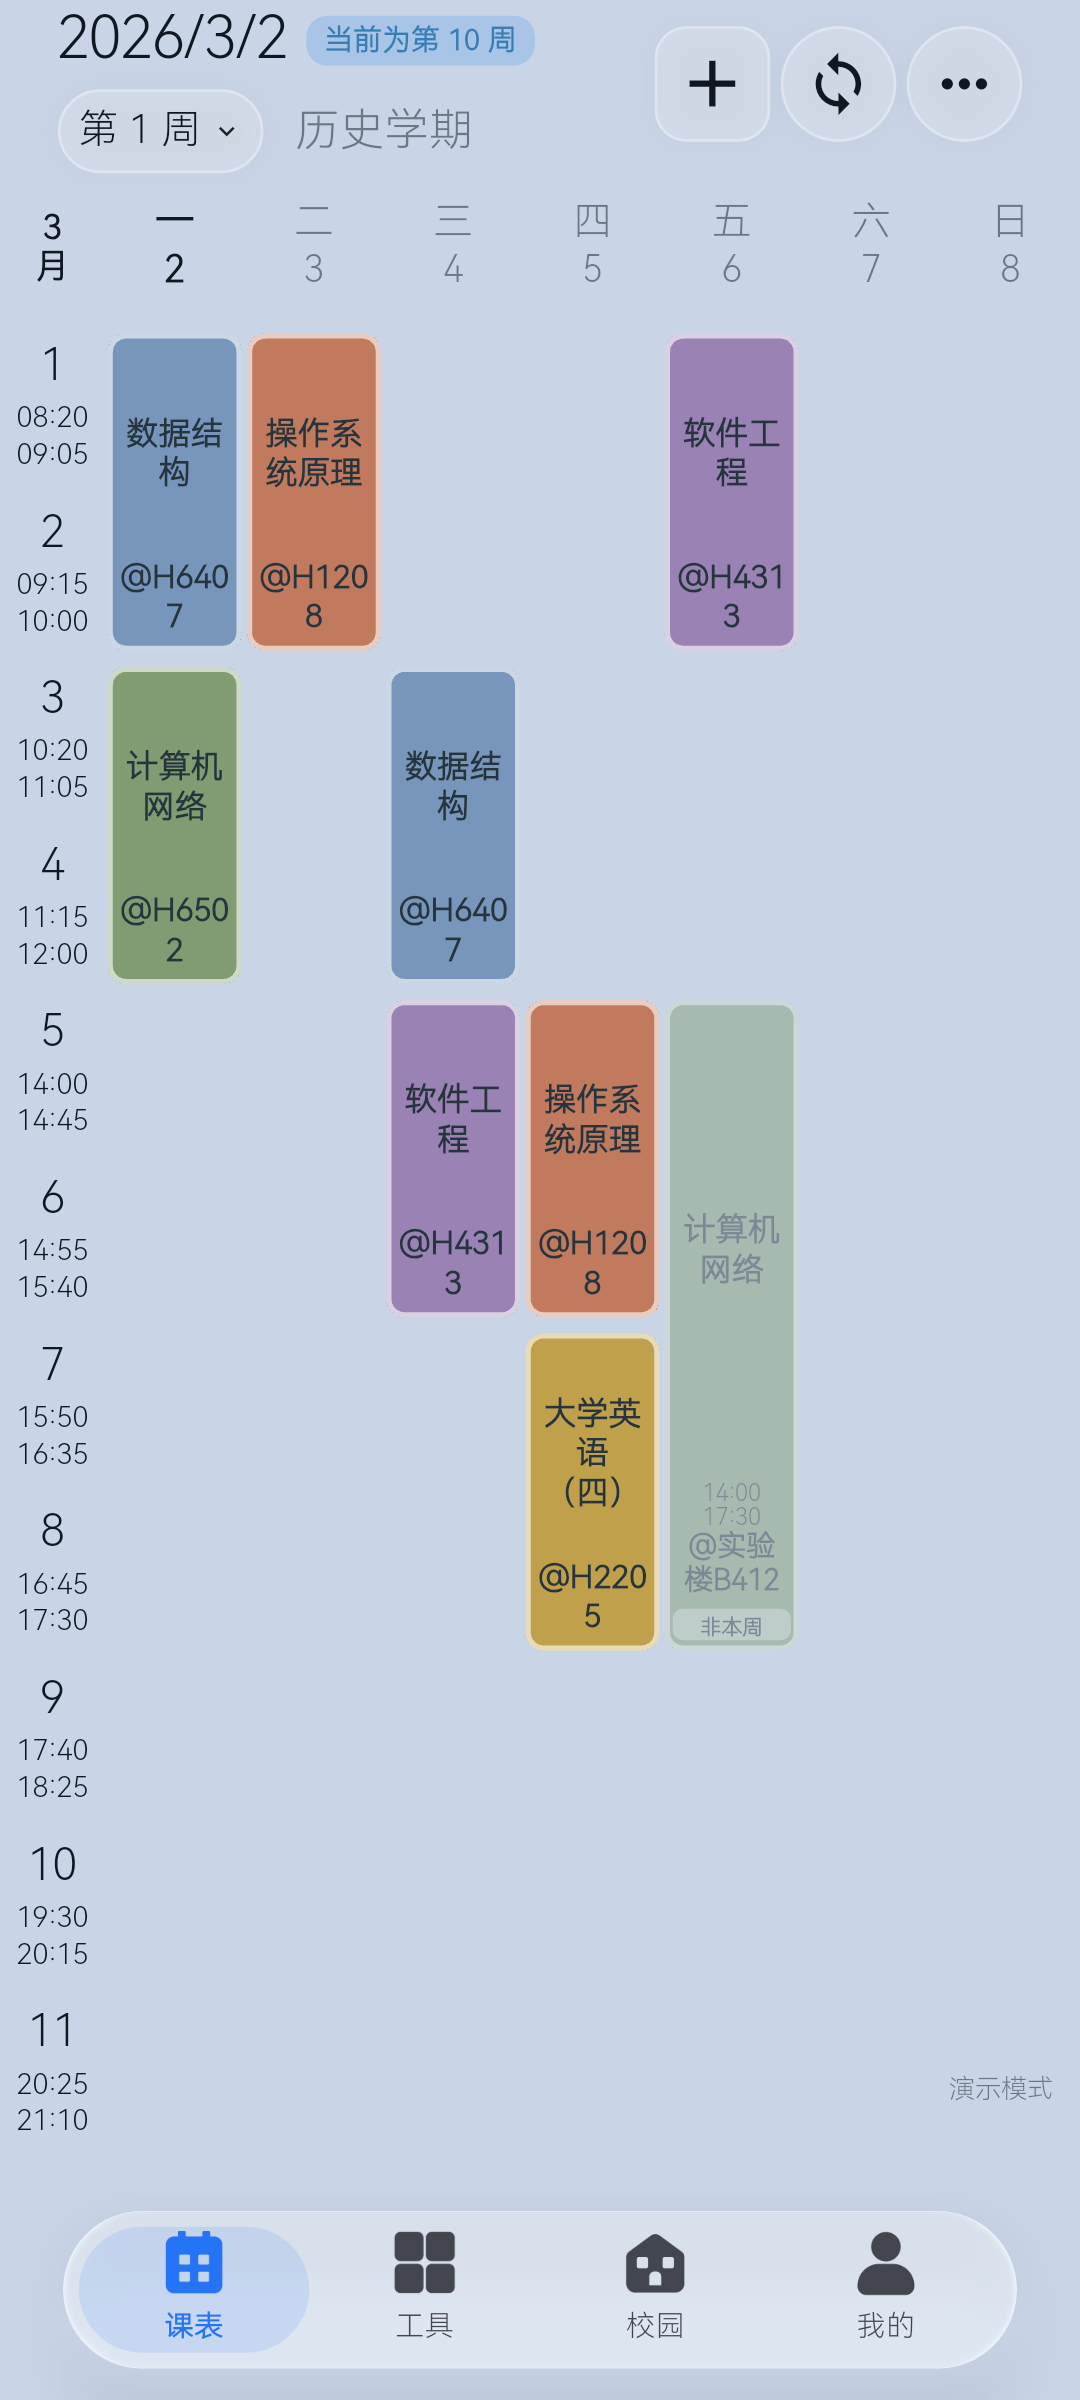
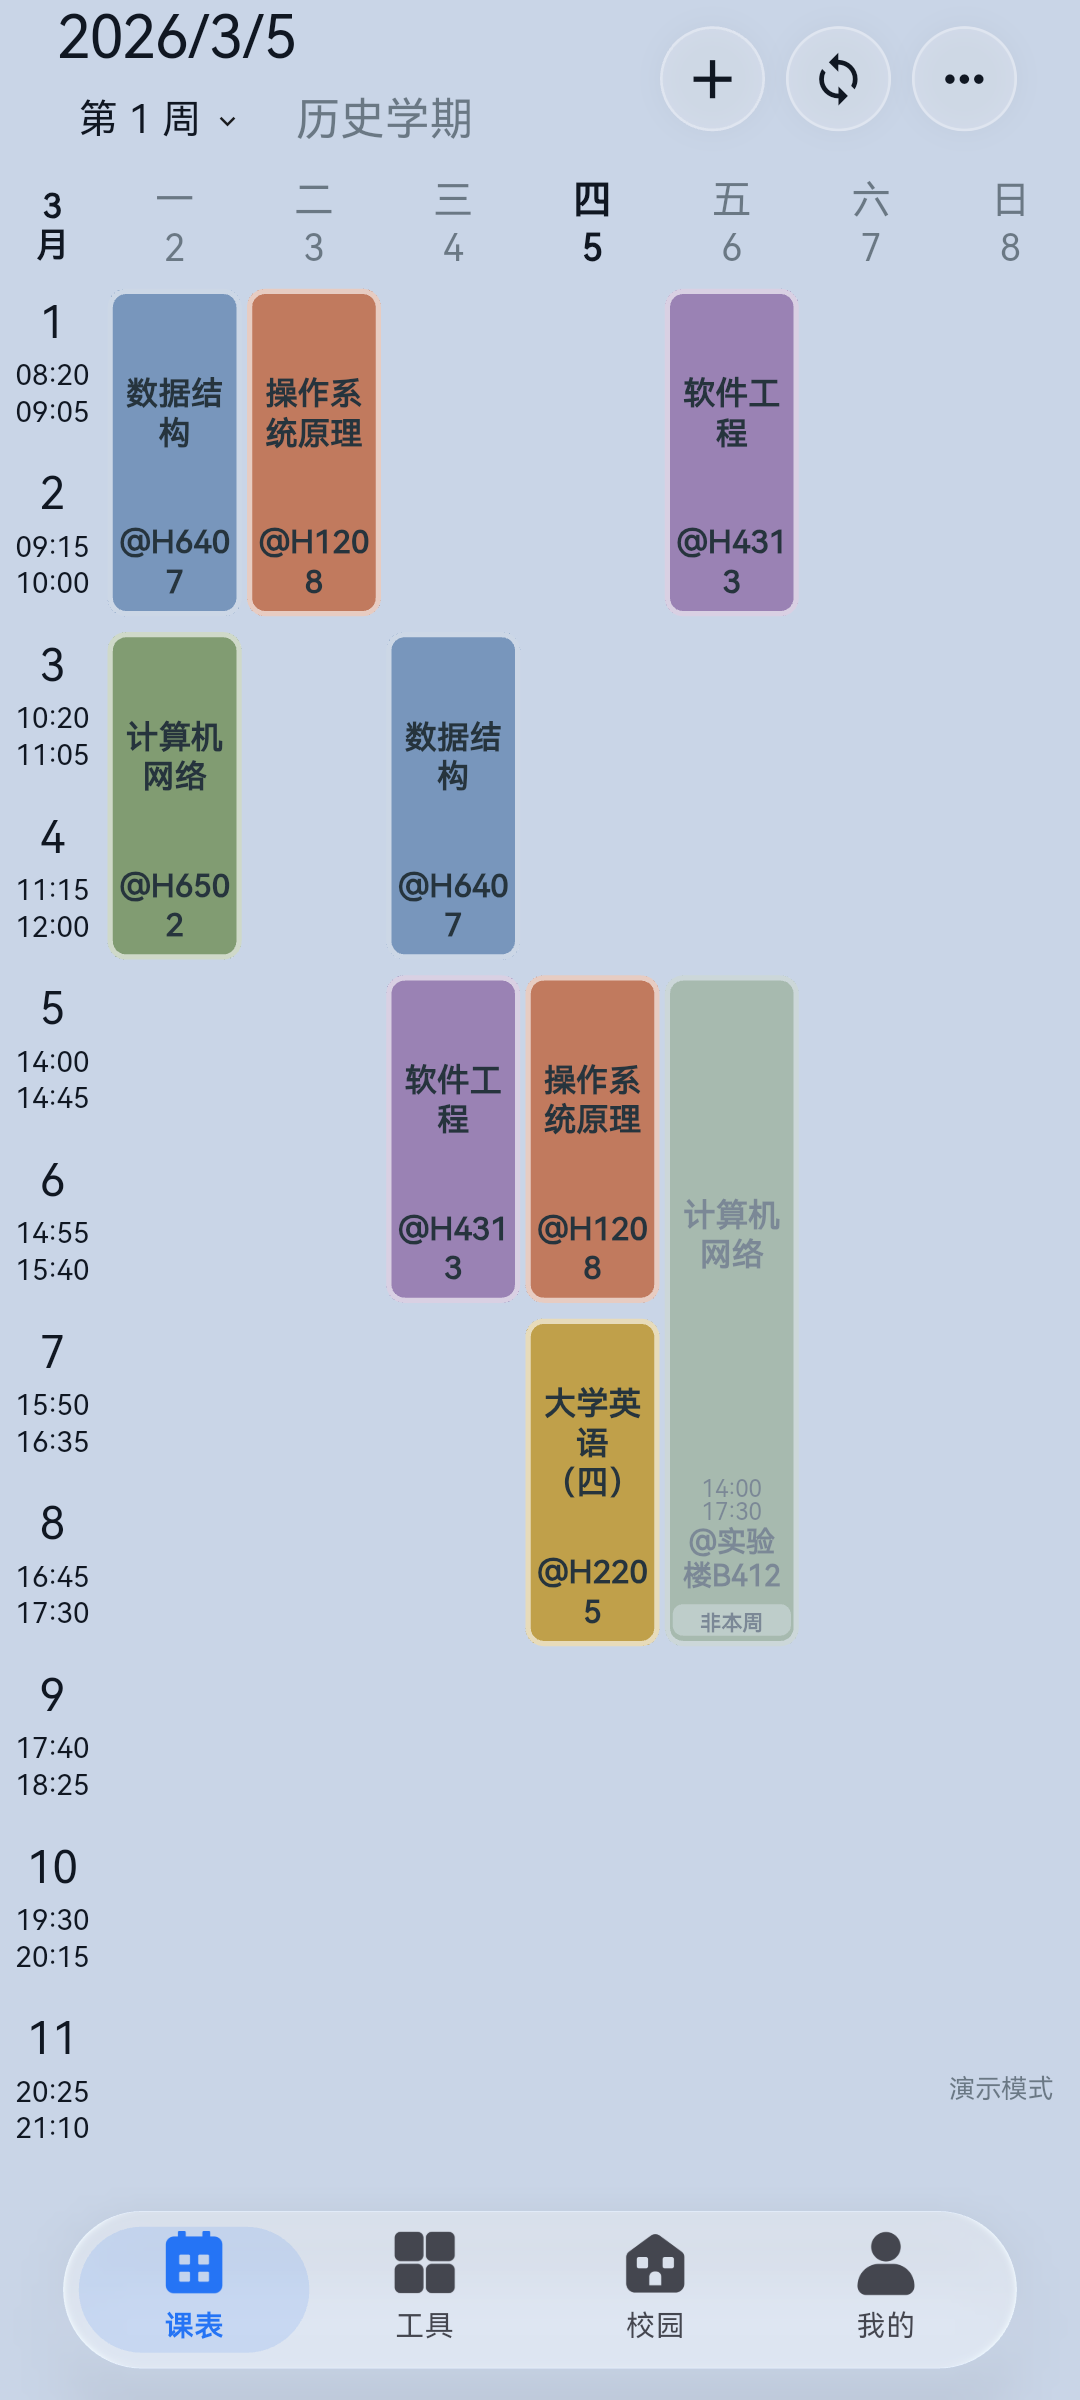
fix(flutter): split Android font by size to balance weight
HarmonyOS Sans SC has no intermediate weight: Light reads too thin for body text and Regular/Medium read heavy for headings. Register two families and use Light for display/headline and Regular for body, titles and labels.

diff --git a/flutter/lib/ui/theme/app_theme.dart b/flutter/lib/ui/theme/app_theme.dart
@@ -6,12 +6,23 @@ class AppTheme {
   static const background = Color(0xFFF4F6FA);
 
   /// 仅安卓使用内置的 HarmonyOS Sans SC；iOS 传 null，继续用系统的苹方 / SF Pro。
-  static const String androidFontFamily = 'HarmonyOS Sans SC';
+  ///
+  /// 这个家族没有 350 的中间字面：Light 偏细、Regular 偏粗。所以按字号分工：
+  /// 大标题用 Light，正文/标签用 Regular，既不发飘也不发重。
+  static const String androidFontFamily = 'HarmonyOS Sans SC Text';
+  static const String androidDisplayFontFamily = 'HarmonyOS Sans SC Light';
 
   static String? get _platformFontFamily {
     if (kIsWeb) return null;
     return defaultTargetPlatform == TargetPlatform.android
         ? androidFontFamily
+        : null;
+  }
+
+  static String? get _platformDisplayFontFamily {
+    if (kIsWeb) return null;
+    return defaultTargetPlatform == TargetPlatform.android
+        ? androidDisplayFontFamily
         : null;
   }
 
@@ -23,7 +34,7 @@ class AppTheme {
       primary: dark ? const Color(0xFF8DB6FF) : accent,
       surface: dark ? const Color(0xFF191C23) : Colors.white,
     );
-    return ThemeData(
+    final theme = ThemeData(
       useMaterial3: true,
       colorScheme: scheme,
       brightness: brightness,
@@ -95,6 +106,19 @@ class AppTheme {
       dividerTheme: DividerThemeData(
         color: scheme.outlineVariant.withValues(alpha: .45),
         thickness: .7,
+      ),
+    );
+    final displayFont = _platformDisplayFontFamily;
+    if (displayFont == null) return theme;
+    final text = theme.textTheme;
+    return theme.copyWith(
+      textTheme: text.copyWith(
+        displayLarge: text.displayLarge?.copyWith(fontFamily: displayFont),
+        displayMedium: text.displayMedium?.copyWith(fontFamily: displayFont),
+        displaySmall: text.displaySmall?.copyWith(fontFamily: displayFont),
+        headlineLarge: text.headlineLarge?.copyWith(fontFamily: displayFont),
+        headlineMedium: text.headlineMedium?.copyWith(fontFamily: displayFont),
+        headlineSmall: text.headlineSmall?.copyWith(fontFamily: displayFont),
       ),
     );
   }

diff --git a/flutter/test/font_theme_test.dart b/flutter/test/font_theme_test.dart
@@ -17,6 +17,15 @@ void main() {
       android.textTheme.titleLarge?.fontFamily,
       AppTheme.androidFontFamily,
     );
+    // 大标题用 Light，正文/标签用 Regular。
+    expect(
+      android.textTheme.headlineSmall?.fontFamily,
+      AppTheme.androidDisplayFontFamily,
+    );
+    expect(
+      android.textTheme.bodyMedium?.fontFamily,
+      AppTheme.androidFontFamily,
+    );
 
     debugDefaultTargetPlatformOverride = TargetPlatform.iOS;
     final ios = AppTheme.build(Brightness.light);

diff --git a/flutter/docs/ANDROID_TYPOGRAPHY.md b/flutter/docs/ANDROID_TYPOGRAPHY.md
@@ -27,11 +27,12 @@ iOS 的 `PingFang SC` + `SF Pro` 由系统提供，Flutter 通过 `CupertinoSyst
 | 文件 | 大小 |
 | --- | --- |
 | `HarmonyOS_Sans_SC_Light.ttf` | 8.2 MB |
-| 合计（未压缩） | 8.2 MB |
+| `HarmonyOS_Sans_SC_Regular.ttf` | 8.26 MB |
+| 合计（未压缩） | 16.5 MB |
 
-只打包 Light 一个文件，release APK 为 **75.7 MB**（三字体版本是 86.0 MB）。Regular/Medium/Bold 仍留在仓库里备用，未在 `fonts:` 声明就不会打进包。字体属于 assets，**不能通过 Shorebird 补丁下发**，要发新的基础版本。
+两个家族各打包一份，release APK 为 **82.6 MB**。Medium/Bold 仍留在仓库里备用，未在 `fonts:` 声明就不会打进包。字体属于 assets，**不能通过 Shorebird 补丁下发**，要发新的基础版本。
 
-## 字重映射：只用 Light
+## 字重映射：按字号分两个家族
 
 实测发现 HarmonyOS Sans SC 的各个字重并不在同一个内部 family 里：
 
@@ -42,43 +43,47 @@ iOS 的 `PingFang SC` + `SF Pro` 由系统提供，Flutter 通过 `CupertinoSyst
 | Medium | `HarmonyOS Sans SC Medium` | Regular | 500 |
 | Bold | `HarmonyOS Sans SC` | Bold | 700 |
 
-Flutter 的资产字重匹配因此不可靠：把 Medium/Light 按 500/300 登记进同一个 `fonts:` family 时，它们不一定被当成该 family 的字重；而 `w600/w700` 更容易落到同 family 的 **Bold** 上——上一版“标签/标题偏粗”就是从这里来的（`w600` 的 99 处标签都拿到了 700 的字面）。
+Flutter 的资产字重匹配因此不可靠：把 Medium/Light 按 500/300 登记进同一个 `fonts:` family 时，它们不一定被当成该 family 的字重；而 `w600/w700` 更容易落到同 family 的 **Bold** 上——最初“标签/标题偏粗”就是从这里来的。
 
-现在只登记 **Light** 一个文件：
+只用一个 Light（全部偏细）或一个 Regular（小字偏粗）都走极端，所以按字号拆成两个家族：
 
 ```yaml
 fonts:
-  - family: HarmonyOS Sans SC
+  - family: HarmonyOS Sans SC Light
     fonts:
       - asset: assets/fonts/HarmonyOS_Sans_SC_Light.ttf
         weight: 400
+  - family: HarmonyOS Sans SC Text
+    fonts:
+      - asset: assets/fonts/HarmonyOS_Sans_SC_Regular.ttf
+        weight: 400
 ```
 
-所有字重都落到 Light，层级只靠字号。同一页实测文字墨量：
+`app_theme.dart` 里默认字体是 `HarmonyOS Sans SC Text`（Regular），只把 display/headline 六档改成 `HarmonyOS Sans SC Light`。效果是大标题轻盈、正文和标签扎实：
 
-| 位置 | 旧（Bold/Medium） | 新（Light） |
-| --- | --- | --- |
-| 页面标题 | 0.455 | 0.357 |
-| 工具名 | 0.478 | 0.366 |
-| 说明文字 | 0.266 | 0.185 |
+| 位置 | 全 Light | 全 Regular | 现在（分字号） |
+| --- | --- | --- | --- |
+| 页面标题（24px） | 0.357 | 0.455 | **0.357**（Light） |
+| 工具名（15px） | 0.366 | 0.478 | **0.478**（Regular） |
+| 说明文字（12px） | 0.185 | 0.266 | **0.266**（Regular） |
 
-代价是标题不再比正文“重”，只剩大小差异；如果觉得太细，把 `fonts:` 换成 Regular 即可（改一行、重新打包）。
+这样小字不再发飘，大标题也不会显得沉重；字号越大越轻，符合常见的视觉习惯。
 
 ## 代码位置
 
 | 位置 | 作用 |
 | --- | --- |
-| `pubspec.yaml` | 声明字体家族与四个字重 |
-| `lib/ui/theme/app_theme.dart` | `_platformFontFamily`：仅 `defaultTargetPlatform == android` 时返回 `HarmonyOS Sans SC`；iOS 传 null |
+| `pubspec.yaml` | 声明 Light / Text 两个家族 |
+| `lib/ui/theme/app_theme.dart` | `_platformFontFamily`（Text/Regular）与 `_platformDisplayFontFamily`（Light）：仅安卓生效，iOS 传 null |
 | `lib/ui/theme/font_licenses.dart` | 把许可文本挂到 Flutter 的开源许可页 |
 | `lib/features/profile/presentation/about_page.dart` | 关于页脚注 |
-| `assets/fonts/` | 三个未修改的 TTF + 许可全文 |
+| `assets/fonts/` | 未修改的 TTF（当前打包 Light + Regular）+ 许可全文 |
 
 鸿蒙（`defaultTargetPlatform.name == 'ohos'`）不会命中 `TargetPlatform.android`，继续用系统字体。
 
 ## 验证与回退
 
-模拟器（Android 15 AOSP）实测：登录页、课表、工具页均正常显示 HarmonyOS Sans SC，`w700` 标题仍明显重于 `w600` 工具名，没有溢出。
+模拟器（Android 15 AOSP）实测：登录页、课表、工具页均正常显示 HarmonyOS Sans SC；页面标题走 Light、工具名和正文走 Regular，层级靠字号而不是字重，没有溢出。
 
 | 课表 | 工具 |
 | --- | --- |
@@ -91,7 +96,7 @@ fonts:
 回退到系统字体：
 
 1. 删除 `pubspec.yaml` 里的 `fonts:` 段和 `assets/fonts/...` 资产项；
-2. 删除 `AppTheme._platformFontFamily` 并在 `ThemeData` 去掉 `fontFamily`；
+2. 删除 `AppTheme._platformFontFamily` / `_platformDisplayFontFamily`，去掉 `ThemeData.fontFamily` 和 headline 的字体覆盖；
 3. 删除 `main.dart` 的 `registerBundledFontLicenses()`、`font_licenses.dart`、关于页脚注；
 4. 删除 `assets/fonts/`。
 

diff --git a/flutter/README.md b/flutter/README.md
@@ -188,7 +188,7 @@ python3 tool/sync_calendar.py --check  # 构建前检查
 
 ## 字体
 
-安卓单独使用 HarmonyOS Sans SC（华为免费商用），iOS 继续用系统苹方 / SF Pro；Flutter 在安卓默认请求 Roboto，不同 ROM 回落到 MiSans / Noto Sans CJK，观感不一致。该字体的 Medium/Light 在文件内部是独立 family，Flutter 权重匹配不可靠，所以只登记 Light 一个字面（层级靠字号）、标题不再用 Bold；许可限制（禁止 subset，只能原样打包）、体积和回退方式见 [安卓字体](docs/ANDROID_TYPOGRAPHY.md)。
+安卓单独使用 HarmonyOS Sans SC（华为免费商用），iOS 继续用系统苹方 / SF Pro；Flutter 在安卓默认请求 Roboto，不同 ROM 回落到 MiSans / Noto Sans CJK，观感不一致。该字体的 Medium/Light 在文件内部是独立 family，Flutter 权重匹配不可靠；因此拆成 Light / Regular 两个家族，大标题用 Light、正文和标签用 Regular，小字不发飘也不发重；许可限制（禁止 subset，只能原样打包）、体积和回退方式见 [安卓字体](docs/ANDROID_TYPOGRAPHY.md)。
 
 ## 检查与截图
 
